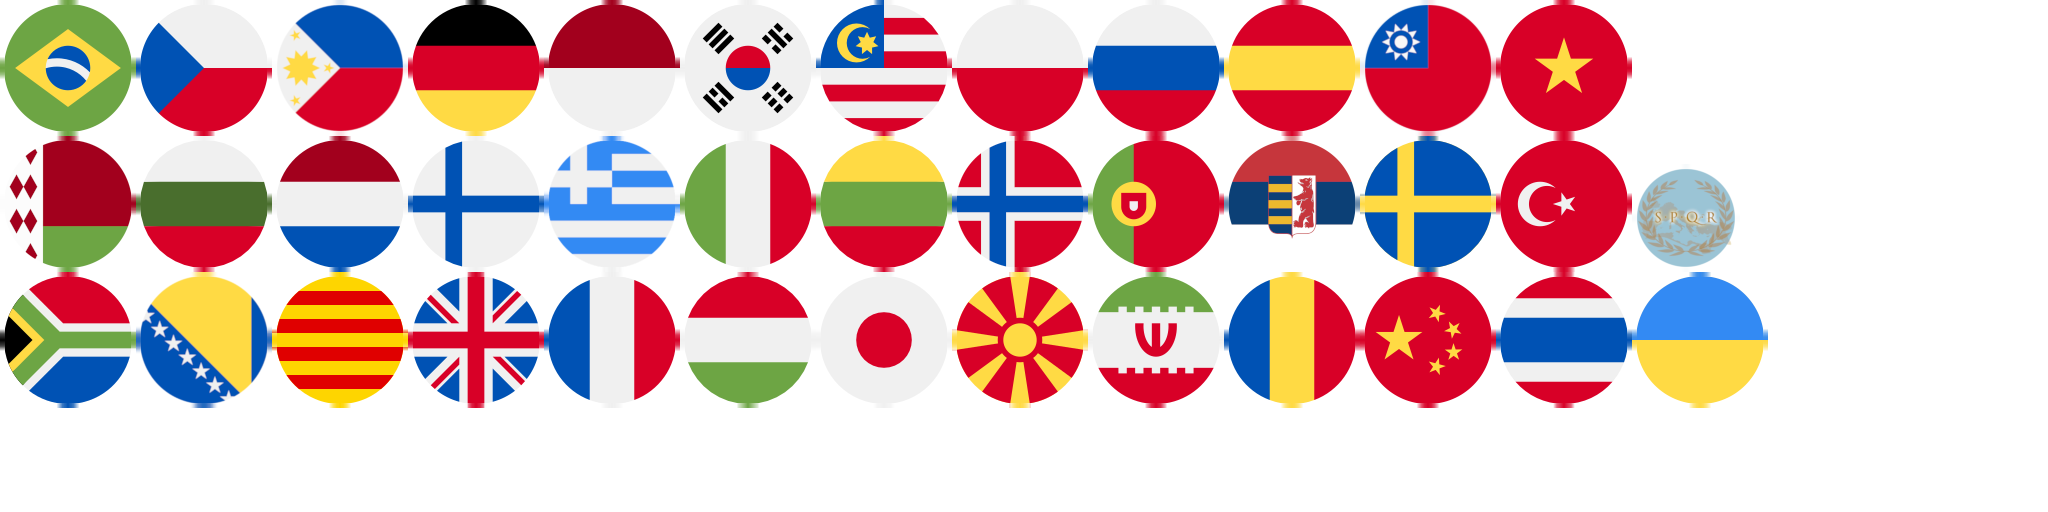
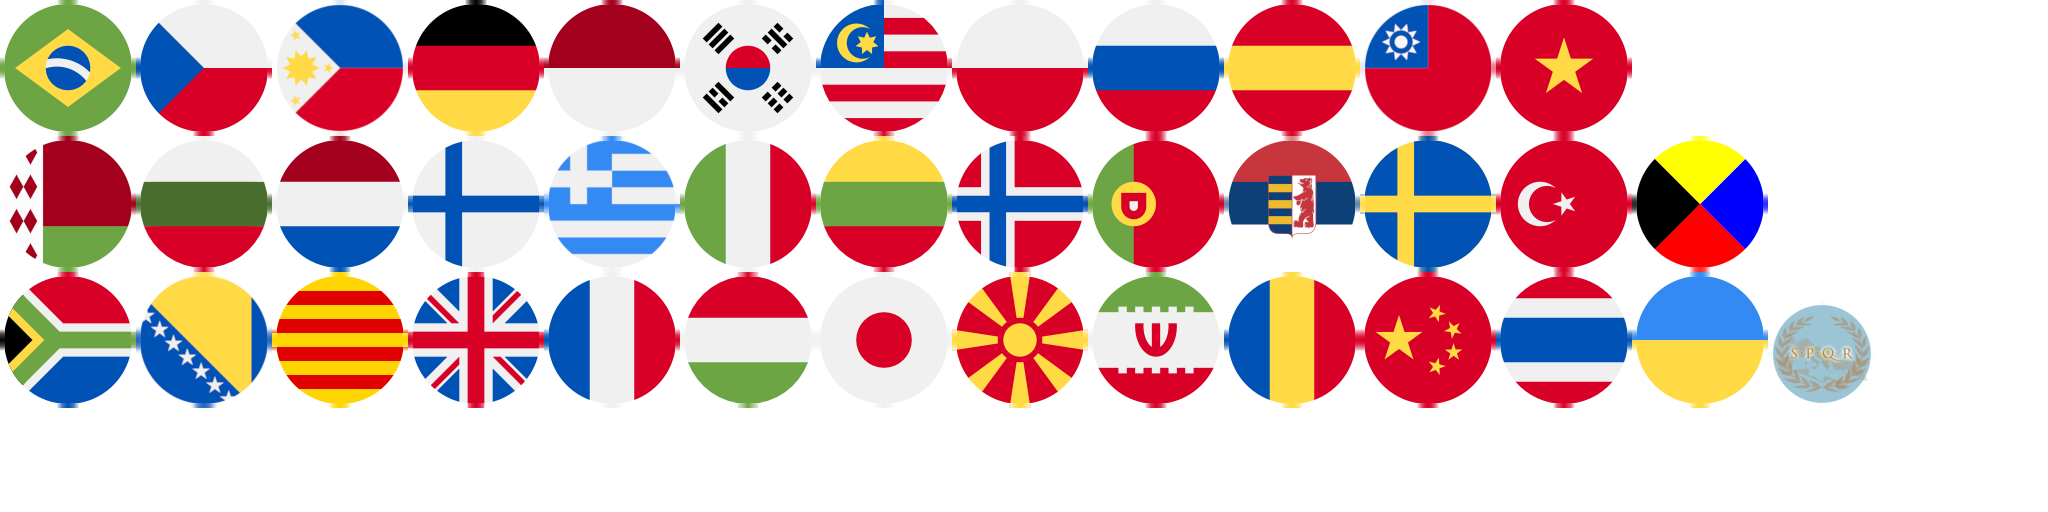
Support for Zulu language (#11644)

Changed region(s): [[0.7812, 0.25, 0.875, 0.5312], [0.8438, 0.5938, 0.9375, 0.7812]]

diff --git a/core/src/com/unciv/models/metadata/GameSettings.kt b/core/src/com/unciv/models/metadata/GameSettings.kt
@@ -251,7 +251,17 @@ class GameSettings {
 
     enum class NationPickerListMode { Icons, List }
 
+    /** Map Unciv language key to Java locale, for the purpose of getting a Collator for sorting.
+     *  - Effect depends on the Java libraries and may not always conform to expectations.
+     *    If in doubt, debug and see what Locale instance you get and compare its properties with `Locale.getDefault()`.
+     *    (`Collator.getInstance(LocaleCode.*.run { Locale(language, country) }) to Collator.getInstance())`, drill to both `rules`, compare hashes - if equal and other properties equal, then Java doesn't know your Language))
+     *  @property name same as translation file name with ' ', '_', '-', '(', ')' removed
+     *  @property language ISO 639-1 code for the language
+     *  @property country ISO 3166 code for the nation this is predominantly spoken in
+     *  @property trueLanguage If set, used instead of language to trick Java into supplying a close-enough collator (a no-match would otherwise give us the default collator, not a collator for a partial match)
+     */
     enum class LocaleCode(val language: String, val country: String, val trueLanguage: String? = null) {
+        Afrikaans("af", "ZA"),
         Arabic("ar", "IQ"),
         Belarusian("be", "BY"),
         Bosnian("bs", "BA"),
@@ -297,7 +307,7 @@ class GameSettings {
         Turkish("tr", "TR"),
         Ukrainian("uk", "UA"),
         Vietnamese("vi", "VN"),
-        Afrikaans("af", "ZA")
+        Zulu("zu", "ZA")
     }
 
     //endregion

diff --git a/docs/Credits.md b/docs/Credits.md
@@ -7,6 +7,7 @@ Flag Icons made by [Freepik](https://www.flaticon.com/authors/freepik) from [www
 -   [Catalan flag] by J0anJosep licensed under Public Domain
 -   [Rusyn flag] gimped from the wikipedia flag [Flag of Pannonian Rusyns](https://en.wikipedia.org/wiki/File:Flag_of_Rusyns_in_Serbia.svg) (CC-BY-SA 4.0)
 -   [Latin flag] made from [wikipedia entry for SPQR](https://en.wikipedia.org/wiki/SPQR#/media/File:Roman_SPQR_banner.svg), Creative Commons Attribution 3.0 Unported
+-   [Zulu flag] made from [wikipedia entry for the Z flag](https://en.wikipedia.org/wiki/Z_flag#/media/File:ICS_Zulu.svg): public domain
 
 New Unciv logo made by u-ndefined on Discord
 
